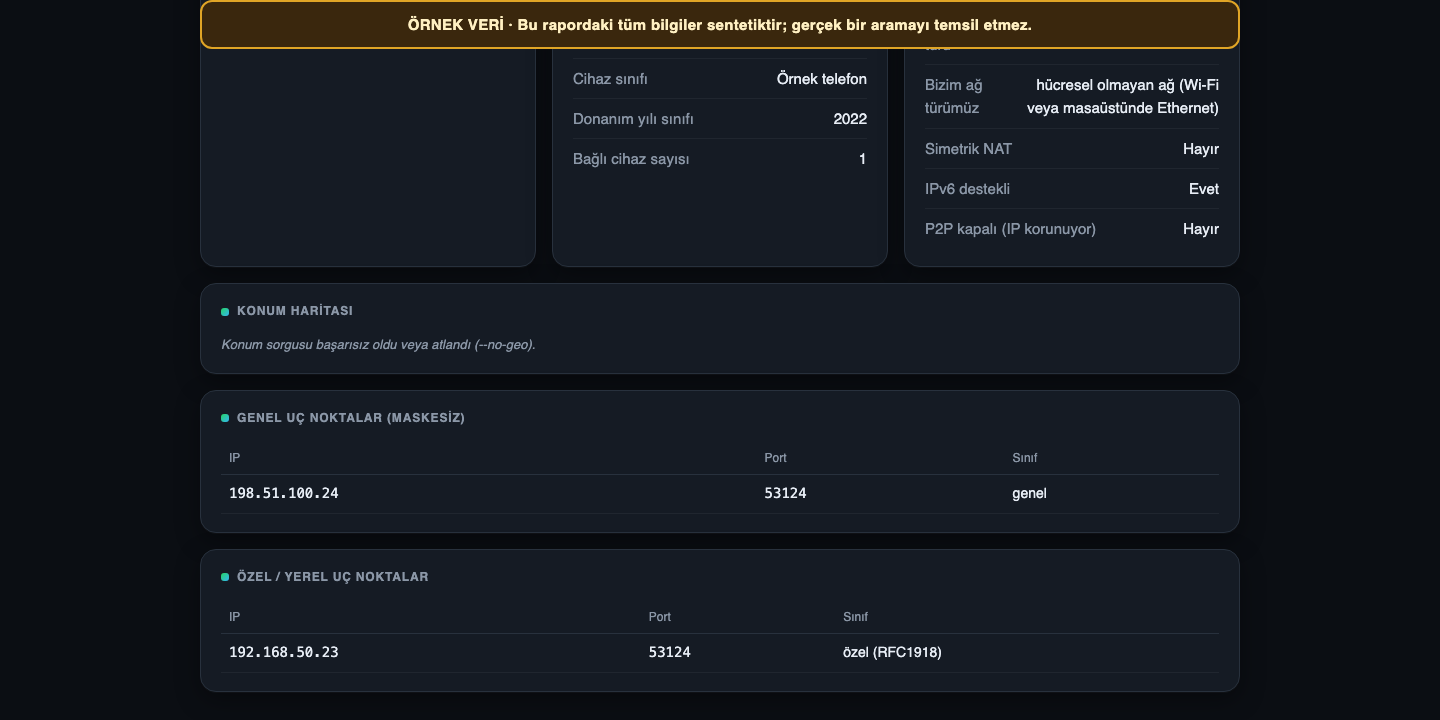
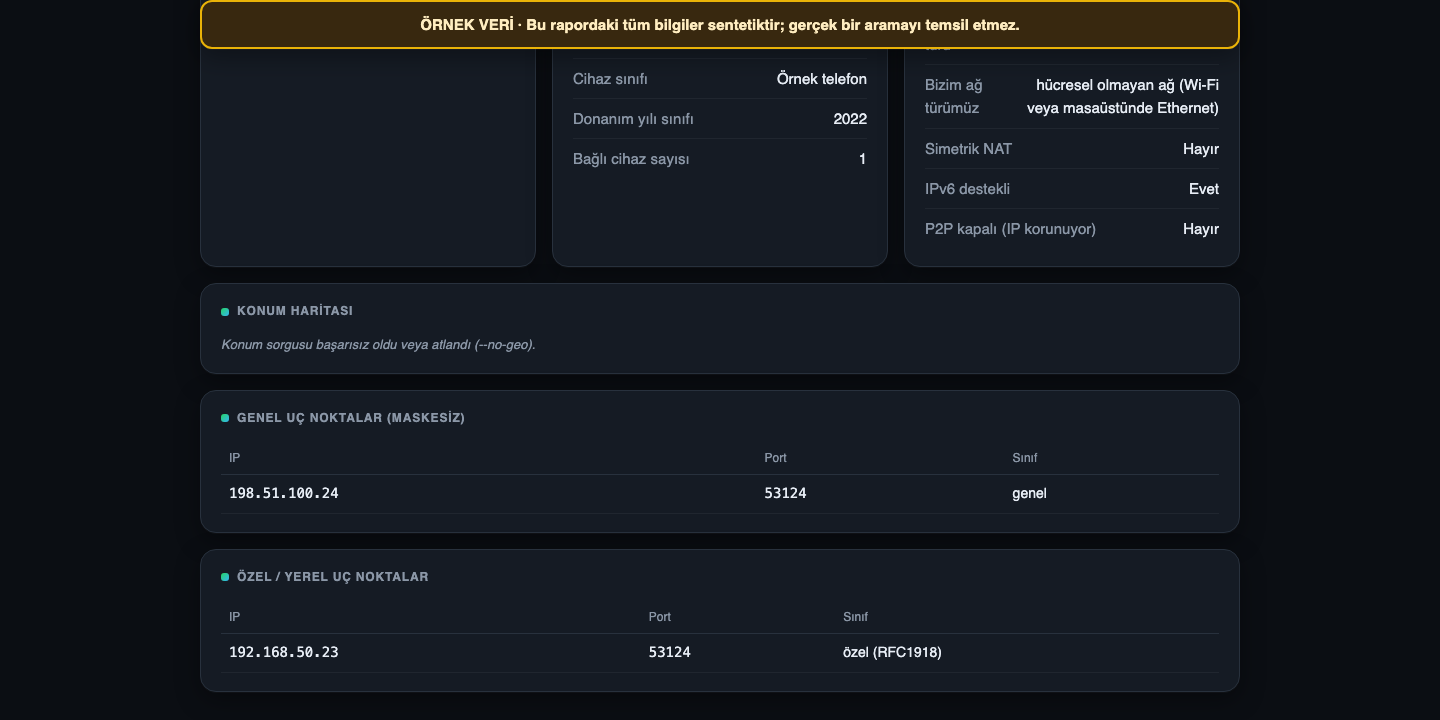
Mac/Linux paketlerini doğrula, gerçek arayüz görseli ve örnek veri etiketi ekle

Changed region(s): [[0.2812, 0.0, 0.7188, 0.0917]]

diff --git a/docs/screenshots/demo_report.html b/docs/screenshots/demo_report.html
@@ -3,7 +3,6 @@
 <head>
 <meta charset="utf-8">
 <meta name="viewport" content="width=device-width, initial-scale=1">
-<meta name="robots" content="noindex,nofollow">
 <title>WhatsApp Karşı Taraf Verisi Yakalama</title>
 
 <style>
@@ -24,6 +23,10 @@
       "Microsoft YaHei","PingFang SC",sans-serif;
     padding:28px 16px}
   .wrap{max-width:1040px;margin:0 auto}
+  .demo-banner{position:sticky;top:0;z-index:100;max-width:1040px;
+    margin:0 auto 18px;padding:11px 16px;border:2px solid #eab308;
+    border-radius:12px;background:#38280f;color:#ffedc0;text-align:center;
+    font-weight:700;box-shadow:var(--shadow)}
   .topbar{display:flex;align-items:center;justify-content:space-between;
     gap:16px;flex-wrap:wrap;margin-bottom:6px}
   .brand{display:flex;align-items:center;gap:13px}
@@ -91,9 +94,6 @@
   .caveats{margin:0;padding-inline-start:18px;color:var(--muted);font-size:13px}
   .caveats li{margin:7px 0}
   footer{color:var(--muted);font-size:12px;text-align:center;margin-top:30px}
-  .demo-banner{position:sticky;top:0;z-index:100;max-width:1040px;margin:0 auto 18px;padding:11px 16px;
-    border:2px solid #e0a526;border-radius:12px;background:#3a270d;
-    color:#fff0c2;text-align:center;font-weight:750;letter-spacing:.02em}
 </style>
 </head>
 <body>
@@ -112,7 +112,7 @@
       <div>
         <h1 data-i18n="app.title">WhatsApp Karşı Taraf Verisi Yakalama</h1>
         <div class="sub"><span data-i18n="app.subtitle">Aramanın karşı tarafından gözlemlenen üstveri</span>
-          &middot; <span data-i18n="app.generated">oluşturuldu</span> 2026-10-07 12:04:23</div>
+          &middot; <span data-i18n="app.generated">oluşturuldu</span> 2026-10-07 12:16:06</div>
       </div>
     </div>
     <div class="langbox">

diff --git a/whatsapp/wa_peer.py b/whatsapp/wa_peer.py
@@ -1278,6 +1278,12 @@ def render_html(report):
             i, _esc(I18N["tr"].get("cav.%d" % i, c)))
         for i, c in enumerate(caveats))
 
+    sample = report.get("sample")
+    sample_banner = (
+        '<div class="demo-banner" role="note">ÖRNEK VERİ · Bu rapordaki tüm bilgiler '
+        'sentetiktir; gerçek bir aramayı temsil etmez.</div>'
+        if isinstance(sample, dict) and sample.get("is_synthetic") is True else "")
+
     return HTML_TEMPLATE % {
         "i18n_json": _script_json(I18N),
         "map_config": _script_json(map_cfg),
@@ -1291,6 +1297,7 @@ def render_html(report):
                        'crossorigin=""></script>'
                        if map_cfg["state"] == "ok" else ""),
         "generated": _esc(generated),
+        "sample_banner": sample_banner,
         "events": _esc(cap.get("events")),
         "duration": _esc(cap.get("duration_s")),
         "numeric": _esc(cap.get("numeric_fields")),
@@ -1370,6 +1377,10 @@ HTML_TEMPLATE = """<!doctype html>
       "Microsoft YaHei","PingFang SC",sans-serif;
     padding:28px 16px}
   .wrap{max-width:1040px;margin:0 auto}
+  .demo-banner{position:sticky;top:0;z-index:100;max-width:1040px;
+    margin:0 auto 18px;padding:11px 16px;border:2px solid #eab308;
+    border-radius:12px;background:#38280f;color:#ffedc0;text-align:center;
+    font-weight:700;box-shadow:var(--shadow)}
   .topbar{display:flex;align-items:center;justify-content:space-between;
     gap:16px;flex-wrap:wrap;margin-bottom:6px}
   .brand{display:flex;align-items:center;gap:13px}
@@ -1440,6 +1451,7 @@ HTML_TEMPLATE = """<!doctype html>
 </style>
 </head>
 <body>
+%(sample_banner)s
 <div class="wrap">
   <div class="topbar">
     <div class="brand">

diff --git a/whatsapp/wa_peer_gui.py b/whatsapp/wa_peer_gui.py
@@ -530,6 +530,7 @@ class WhatsAppCaptureApp:
         self.active = False
         self.worker_kind = None
         self.import_progress.stop()
+        self.import_progress.configure(value=0)
         self.import_button.configure(state="normal")
         self.last_html = html_path.resolve()
         self.last_folder = self.last_html.parent
@@ -547,7 +548,9 @@ class WhatsAppCaptureApp:
             duration = capture.get("duration_s", "?")
             peer_state = ("Karşı taraf verisi var." if has_peer_data(report)
                           else "Karşı taraf verisi bulunamadı.")
-            self.summary_var.set(f"{events} olay · {duration} saniye · {peer_state}")
+            sample = report.get("sample")
+            label = "ÖRNEK VERİ · " if isinstance(sample, dict) and sample.get("is_synthetic") is True else ""
+            self.summary_var.set(f"{label}{events} olay · {duration} saniye · {peer_state}")
             self.status_var.set("Rapor hazır.")
         if self.closing:
             self._destroy()
@@ -558,6 +561,7 @@ class WhatsAppCaptureApp:
         self.active = False
         self.worker_kind = None
         self.import_progress.stop()
+        self.import_progress.configure(value=0)
         self.import_button.configure(state="normal")
         self.status_var.set("Rapor açılamadı.")
         self.summary_var.set("Dosya biçimini ve boyutunu kontrol edin.")

diff --git a/whatsapp/README.md b/whatsapp/README.md
@@ -50,7 +50,7 @@ Kaynak koddan açmak isterseniz `python3 wa_peer_gui.py` komutunu kullanın; ayn
 
 ### GitHub Actions üzerinden hazır paket
 
-Bu türev depo GitHub'a yüklendikten ve iş akışı başarılı şekilde çalıştıktan sonra türev deponun **Actions → Masaüstü paketleri → en yeni başarılı çalıştırma → Artifacts** yolunu izleyin. `WhatsAppAramaRaporu-Windows` yapıtı EXE içerir. `WhatsAppRaporGoruntuleyici-macOS-arm64` Apple Silicon, `WhatsAppRaporGoruntuleyici-macOS-x64` Intel Mac içindir; her ikisi `.app` ZIP arşivi içerir. `WhatsAppRaporGoruntuleyici-Linux` yapıtı `.tar.gz` içerir. Mac ve Linux arşivlerini açıp uygulamayı dosya yöneticisinden başlatın. Başarılı CI derlemesi canlı Mac/Linux yakalama desteği anlamına gelmez.
+[Masaüstü paketleri iş akışını](https://github.com/gorkemguler/chat-apps-osint-tr-desktop/actions/workflows/build-desktop.yml) açıp en yeni başarılı çalıştırmanın **Artifacts** bölümüne gidin. `WhatsAppAramaRaporu-Windows` yapıtı EXE içerir. `WhatsAppRaporGoruntuleyici-macOS-arm64` Apple Silicon, `WhatsAppRaporGoruntuleyici-macOS-x64` Intel Mac içindir; her ikisi `.app` ZIP arşivi içerir. `WhatsAppRaporGoruntuleyici-Linux` yapıtı `.tar.gz` içerir. Mac ve Linux arşivlerini açıp uygulamayı dosya yöneticisinden başlatın. Başarılı CI derlemesi canlı Mac/Linux yakalama desteği anlamına gelmez.
 
 Mac paketleri Actions üzerinde macOS 15, Linux paketi Ubuntu 24.04 ortamında üretilir. Daha eski işletim sistemleri veya Linux dağıtımları için kendi sisteminizde paketleme betiğini kullanın; eski sistemlerle hazır yapıtların uyumluluğu doğrulanmadı.
 
@@ -58,11 +58,15 @@ Yerel Mac ortamında Tkinter içeren güncel bir Python yoksa `build_macos.sh` p
 
 ### Ekran görüntüleri
 
+![Linux rapor görüntüleme arayüzü](../docs/screenshots/gui-linux-rapor-goruntuleme.png)
+
+Bu, Linux üzerinde açılmış gerçek rapor görüntüleme arayüzüdür; [sentetik örnek rapor](examples/demo_report.json) kullanılmıştır.
+
 ![Sentetik verilerle oluşturulmuş HTML rapor ekran görüntüsü](../docs/screenshots/rapor-ornegi.png)
 
 ![Sentetik rapordaki uç nokta ayrıntıları](../docs/screenshots/rapor-ayrintilar.png)
 
-İki görüntü de [sentetik örnek JSON dosyasından](examples/demo_report.json) üretilmiş gerçek HTML raporunun tarayıcı ekran görüntüleridir; masaüstü arayüzünü veya gerçek aramayı göstermez. Arayüz görüntüleri henüz yoktur. Önerilen dosya adları `../docs/screenshots/windows-yakalama.png` ve `../docs/screenshots/mac-linux-rapor-goruntuleme.png`.
+Son iki görüntü, aynı sentetik verilerden üretilmiş gerçek HTML raporunun tarayıcı ekran görüntüleridir; gerçek aramayı göstermez.
 
 ---
 
@@ -121,6 +125,8 @@ Araç her çalıştırıldığında iki dosya oluşturur ve raporu ekrana yazdı
 
 - `wa_peer_full_<timestamp>.json`: Yakalanan bütün alanları içeren ayrıntılı veri dosyası.
 - `wa_peer_report_<timestamp>.html`: Tarayıcıda açılan gösterge paneli. Türkçe, İngilizce, Rusça, Arapça ve Çince dil seçenekleri ile karşı tarafın IP konumunu gösteren bir harita içerir.
+
+HTML raporu üst bilgiler, kimlik, ağ, NAT, konum durumu ve uç noktalar için kısa bir görsel özettir. Telemetri, davranış, parmak izi ve diğer tam alanlar JSON raporunda bulunur.
 
 ---
 

diff --git a/README.md b/README.md
@@ -16,7 +16,7 @@ Kurulum, platforma göre kullanım ve rapor alanlarının açıklamaları için 
 
 ## Hazır paketleri indirme
 
-Bu türev GitHub'a yüklendikten ve iş akışı başarıyla tamamlandıktan sonra deponun **Actions → Masaüstü paketleri → en yeni başarılı çalıştırma → Artifacts** bölümünü açın:
+[Masaüstü paketleri iş akışını](https://github.com/gorkemguler/chat-apps-osint-tr-desktop/actions/workflows/build-desktop.yml) açın; en yeni başarılı çalıştırmanın **Artifacts** bölümünden işletim sisteminize uygun paketi indirin:
 
 - `WhatsAppAramaRaporu-Windows`: Windows EXE.
 - `WhatsAppRaporGoruntuleyici-macOS-arm64`: Apple Silicon Mac için `.app` ZIP dosyası.
@@ -32,13 +32,19 @@ Mac yapıtları GitHub Actions üzerindeki **macOS 15**, Linux yapıtı **Ubuntu
 3. **Windows:** WhatsApp masaüstü uygulamasında arama yaparken **Yakalamayı başlat** seçeneğini kullanın; aramayı bitirdikten sonra **Durdur ve rapor oluştur** seçeneğine basın.
 4. **Tüm sistemler:** **Rapor inceleme** bölümünde önceden oluşturulmuş `.json`, `.jsonl` veya `.html` dosyasını **Dosya seç…** ile seçip **Raporu incele** seçeneğine basın. Denemek için [sentetik örnek raporu](whatsapp/examples/demo_report.json) seçebilirsiniz.
 
+HTML raporu kısa bir görsel özet sunar. Telemetri, davranış, parmak izi ve diğer tüm alanlar için JSON raporunu inceleyin.
+
 ## Ekran görüntüleri
+
+![Linux rapor görüntüleme arayüzü](docs/screenshots/gui-linux-rapor-goruntuleme.png)
+
+Bu, Linux üzerinde açılmış gerçek rapor görüntüleme arayüzüdür; [sentetik örnek rapor](whatsapp/examples/demo_report.json) kullanılmıştır.
 
 ![Sentetik verilerle oluşturulmuş HTML rapor ekran görüntüsü](docs/screenshots/rapor-ornegi.png)
 
 ![Sentetik rapordaki uç nokta ayrıntıları](docs/screenshots/rapor-ayrintilar.png)
 
-İki görüntü de [sentetik örnek JSON verisinden](whatsapp/examples/demo_report.json) üretilmiş **gerçek HTML raporunun tarayıcı ekran görüntüleridir**; gerçek bir aramayı veya masaüstü uygulaması penceresini göstermez. Masaüstü arayüzü görüntüleri henüz eklenmemiştir. Bunlar için önerilen dosya adları `docs/screenshots/windows-yakalama.png` ve `docs/screenshots/mac-linux-rapor-goruntuleme.png`.
+Son iki görüntü, aynı sentetik verilerden üretilmiş **gerçek HTML raporunun tarayıcı ekran görüntüleridir**; gerçek bir aramayı göstermez.
 
 Yalnızca kendi hesabınızda, açık rızayla veya yetkili araştırmada kullanın. Yakalanan raporlar IP adresi gibi kişisel veriler içerebilir.
 

diff --git a/whatsapp/README.en.md b/whatsapp/README.en.md
@@ -1,3 +1,5 @@
+> Preserved copy of the original English WhatsApp README from [0x6rss/chat-apps-osint](https://github.com/0x6rss/chat-apps-osint). For this Turkish derivative's current usage and original-project/MIT attribution, see the [main README](../README.md).
+
 # wa_peer - WhatsApp Desktop call peer-metadata capture
 
 A single-file Frida tool that surfaces the peer-side metadata the WhatsApp for

diff --git a/README.en.md b/README.en.md
@@ -1,2 +1,4 @@
+> Preserved copy of the original English README from [0x6rss/chat-apps-osint](https://github.com/0x6rss/chat-apps-osint). For this Turkish derivative's current usage and original-project/MIT attribution, see the [main README](README.md).
+
 # chat-apps-osint
 Peer-metadata capture for chat-app calls (WhatsApp, Signal, Telegram ..etc). Authorized/consent use only. and more..
